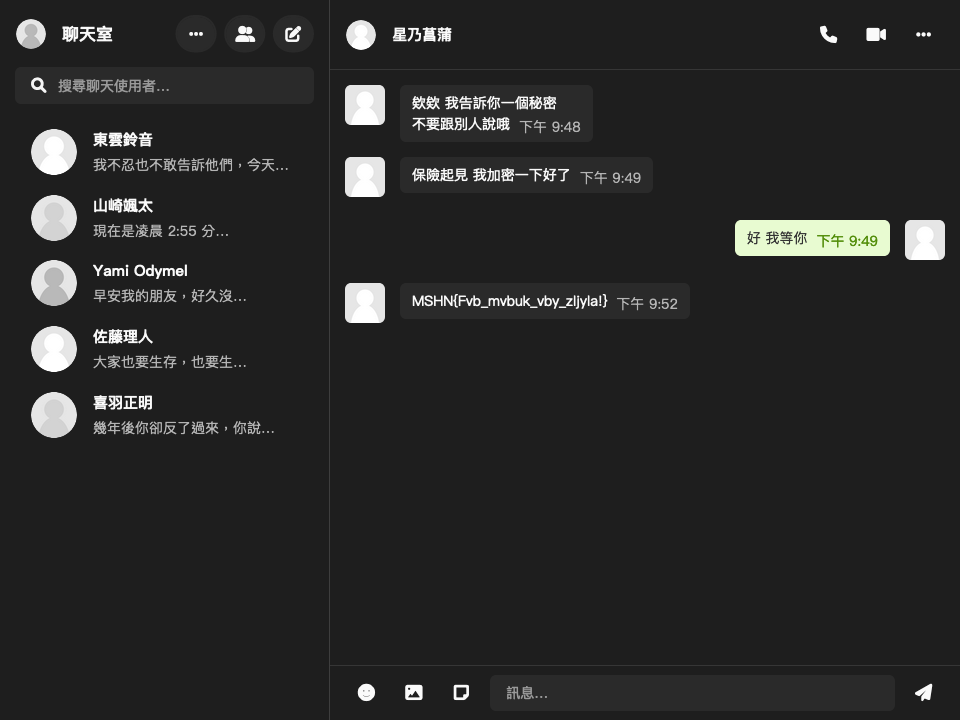
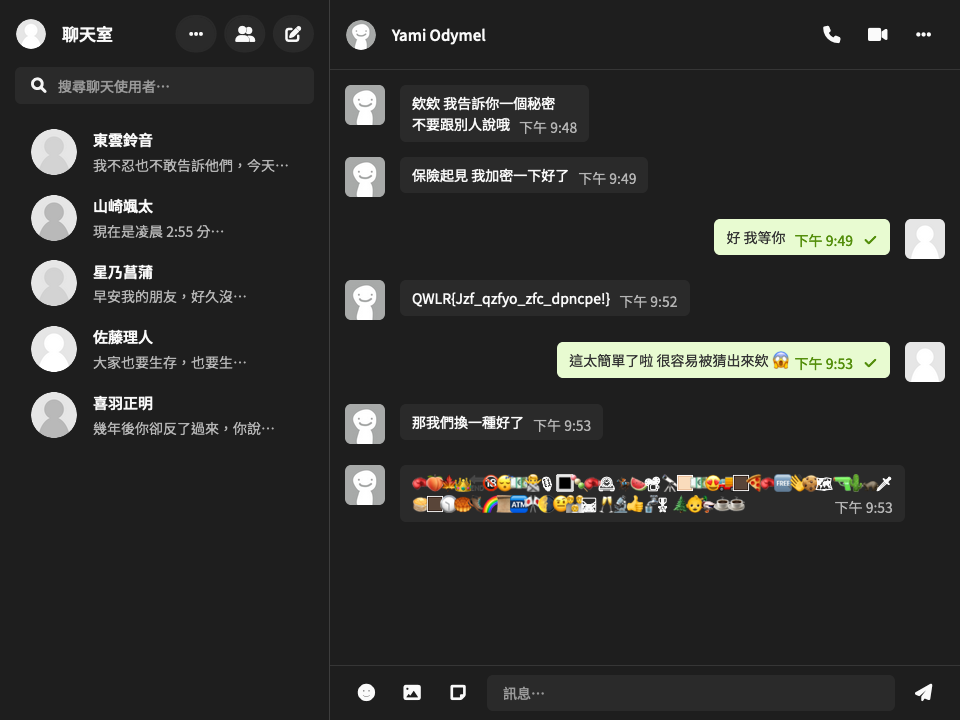
Add 3 vulhub

diff --git a/caesar/index.php b/caesar/index.php
@@ -12,7 +12,7 @@
                     <div class="ts-row is-middle-aligned">
                         <div class="column">
                             <div class="ts-avatar is-circular">
-                                <img src="/assets/img/user3.png" />
+                                <img src="/assets/img/user.png" />
                             </div>
                         </div>
                         <div class="column is-fluid">
@@ -35,14 +35,14 @@
                     <div class="ts-space"></div>
                     <div class="ts-input is-solid is-fluid is-start-icon">
                         <span class="ts-icon is-magnifying-glass-icon"></span>
-                        <input type="text" placeholder="搜尋聊天使用者…" />
+                        <input type="text" placeholder="找找魔法師" />
                     </div>
                     <div class="ts-space"></div>
                     <div class="ts-content is-interactive is-dense">
                         <div class="ts-row is-middle-aligned">
                             <div class="column">
                                 <div class="ts-avatar is-circular is-large">
-                                    <img src="/assets/img/user.png" />
+                                    <img src="/assets/img/user2.png" />
                                 </div>
                             </div>
                             <div class="column">
@@ -55,7 +55,7 @@
                         <div class="ts-row is-middle-aligned">
                             <div class="column">
                                 <div class="ts-avatar is-circular is-large">
-                                    <img src="/assets/img/user2.png" />
+                                    <img src="/assets/img/user3.png" />
                                 </div>
                             </div>
                             <div class="column">
@@ -68,11 +68,11 @@
                         <div class="ts-row is-middle-aligned">
                             <div class="column">
                                 <div class="ts-avatar is-circular is-large">
-                                    <img src="/assets/img/user3.png" />
+                                    <img src="/assets/img/user2.png" />
                                 </div>
                             </div>
                             <div class="column">
-                                <div class="ts-text is-bold">Yami Odymel</div>
+                                <div class="ts-text is-bold">星乃菖蒲</div>
                                 <div class="ts-text is-description">早安我的朋友，好久沒…</div>
                             </div>
                         </div>
@@ -94,7 +94,7 @@
                         <div class="ts-row is-middle-aligned">
                             <div class="column">
                                 <div class="ts-avatar is-circular is-large">
-                                    <img src="/assets/img/user2.png" />
+                                    <img src="/assets/img/user3.png" />
                                 </div>
                             </div>
                             <div class="column">
@@ -111,11 +111,11 @@
                         <div class="ts-row is-middle-aligned">
                             <div class="column">
                                 <div class="ts-avatar is-circular">
-                                    <img src="/assets/img/user.png" />
+                                    <img src="/assets/img/user-yami.jpg" />
                                 </div>
                             </div>
                             <div class="column is-fluid">
-                                <div class="ts-text is-bold">星乃菖蒲</div>
+                                <div class="ts-text is-bold">Yami Odymel</div>
                             </div>
                             <div class="column">
                                 <button class="ts-button is-circular is-icon is-ghost">
@@ -135,7 +135,7 @@
                     <div class="ts-content">
                         <div class="ts-conversation">
                             <div class="avatar">
-                                <img src="/assets/img/user.png" />
+                                <img src="/assets/img/user-yami.jpg" />
                             </div>
                             <div class="content">
                                 <div class="bubble">
@@ -152,7 +152,7 @@
                         <div class="ts-space"></div>
                         <div class="ts-conversation">
                             <div class="avatar">
-                                <img src="/assets/img/user.png" />
+                                <img src="/assets/img/user-yami.jpg" />
                             </div>
                             <div class="content">
                                 <div class="bubble">
@@ -184,7 +184,7 @@
                         <div class="ts-space"></div>
                         <div class="ts-conversation">
                             <div class="avatar">
-                                <img src="/assets/img/user.png" />
+                                <img src="/assets/img/user-yami.jpg" />
                             </div>
                             <div class="content">
                                 <div class="bubble">
@@ -216,7 +216,7 @@
                         <div class="ts-space"></div>
                         <div class="ts-conversation">
                             <div class="avatar">
-                                <img src="/assets/img/user.png" />
+                                <img src="/assets/img/user-yami.jpg" />
                             </div>
                             <div class="content">
                                 <div class="bubble">
@@ -232,7 +232,7 @@
                         <div class="ts-space"></div>
                         <div class="ts-conversation">
                             <div class="avatar">
-                                <img src="/assets/img/user.png" />
+                                <img src="/assets/img/user-yami.jpg" />
                             </div>
                             <div class="content">
                                 <div class="bubble">
@@ -264,7 +264,7 @@
                             </div>
                             <div class="column is-fluid">
                                 <div class="ts-input is-solid is-fluid">
-                                    <input type="text" placeholder="訊息…" />
+                                    <input type="text" placeholder="發送水晶玉" />
                                 </div>
                             </div>
                             <div class="column">

diff --git a/index.php b/index.php
@@ -15,8 +15,10 @@
 		<div class="ts-content is-secondary is-fitted">
 			<div class="ts-container">
 				<div class="ts-tab">
+					<a class="item" target="_blank" href="https://www.sean.taipei/">關於我</a>
 					<div class="item is-active">題目列表</div>
-					<a href="https://hackmd.io/@Sean64/sec" target="_blank" class="item">簡報</a>
+					<a class="item" target="_blank" href="https://hackmd.io/@Sean64/sec">教學簡報</a>
+					<a class="item" target="_blank" href="https://blog.sean.taipei/">部落格</a>
 				</div>
 			</div>
 		</div>
@@ -37,7 +39,7 @@
 					<div class="ts-box">
 						<div class="ts-image">
 							<a target="_blank" href="/f12">
-								<img src="img/f12.png" />
+								<img src="/assets/img/f12.png" />
 							</a>
 						</div>
 						<div class="ts-content">學弟的瀏覽器幫他記住密碼了，要怎麼找出預先填入的密碼呢</div>
@@ -46,18 +48,8 @@
 				<div class="column">
 					<div class="ts-box">
 						<div class="ts-image">
-							<a target="_blank" href="/xss">
-								<img src="img/xss.png" />
-							</a>
-						</div>
-						<div class="ts-content">每個人都可以留言欸！看起來沒有過濾文字，來試試上課教到的 XSS 程式碼注入吧</div>
-					</div>
-				</div>
-				<div class="column">
-					<div class="ts-box">
-						<div class="ts-image">
 							<a target="_blank" href="/bac">
-								<img src="img/bac.png" />
+								<img src="/assets/img/bac.png" />
 							</a>
 						</div>
 						<div class="ts-content">有人偷懶只在前端驗證帳號密碼，動點小巧思就能繞過限制</div>
@@ -67,17 +59,27 @@
 					<div class="ts-box">
 						<div class="ts-image">
 							<a target="_blank" href="/cmdi">
-								<img src="img/cmdi.png" />
+								<img src="/assets/img/cmdi.png" />
 							</a>
 						</div>
-						<div class="ts-content">我開發了一個可以 Ping 任何網站的小工具，放到網路上給大家使用。等等... 是不是哪裡寫壞了？</div>
+						<div class="ts-content">我開發了一個可以 Ping 任何網站的小工具，放到網路上給大家使用。等等... 是不是哪裡寫壞了</div>
+					</div>
+				</div>
+				<div class="column">
+					<div class="ts-box">
+						<div class="ts-image">
+							<a target="_blank" href="/xss">
+								<img src="/assets/img/xss.png" />
+							</a>
+						</div>
+						<div class="ts-content">每個人都可以留言欸！看起來沒有過濾文字，來試試上課教到的 XSS 程式碼注入吧</div>
 					</div>
 				</div>
 				<div class="column">
 					<div class="ts-box">
 						<div class="ts-image">
 							<a target="_blank" href="/caesar">
-								<img src="img/caesar.png" />
+								<img src="/assets/img/caesar.png" />
 							</a>
 						</div>
 						<div class="ts-content">前陣子破解同學電腦，看到了聊天訊息，但似乎被某種方式加密過了，試著找到工具破譯密文吧</div>
@@ -87,10 +89,40 @@
 					<div class="ts-box">
 						<div class="ts-image">
 							<a target="_blank" href="/stego">
-								<img src="img/stego.png" />
+								<img src="/assets/img/stego.png" />
 							</a>
 						</div>
-						<div class="ts-content">這題我想不到可以出什麼情境 (´･ω･`)</div>
+						<div class="ts-content">朋友竟然在河道上發布生活照，好像有些資訊沒有移除掉</div>
+					</div>
+				</div>
+				<div class="column">
+					<div class="ts-box">
+						<div class="ts-image">
+							<a target="_blank" href="https://ctf.sean.cat:43798/">
+								<img src="/assets/img/grafana.png" />
+							</a>
+						</div>
+						<div class="ts-content">Grafana</div>
+					</div>
+				</div>
+				<div class="column">
+					<div class="ts-box">
+						<div class="ts-image">
+							<a target="_blank" href="https://ctf.sean.cat:41773/">
+								<img src="/assets/img/apache2-4-49.png" />
+							</a>
+						</div>
+						<div class="ts-content">Apache 2.4.49</div>
+					</div>
+				</div>
+				<div class="column">
+					<div class="ts-box">
+						<div class="ts-image">
+							<a target="_blank" href="https://ctf.sean.cat:42013/">
+								<img src="/assets/img/apache2-4-50.png" />
+							</a>
+						</div>
+						<div class="ts-content">Apache 2.4.50</div>
 					</div>
 				</div>
 			</div>

diff --git a/bac/index.php b/bac/index.php
@@ -1,101 +1,65 @@
-<?php
-if (isset($_GET['source'])) {
-	highlight_file(__FILE__);
-	exit;
-}
-?>
 <!DOCTYPE html>
-<html>
+<html lang="zh-TW">
 <head>
-	<meta charset="UTF-8">
-	<link href="https://cdn.rawgit.com/TeaMeow/TocasUI/2.3.2/dist/tocas.css" rel='stylesheet'>
-	<script src="https://cdn.rawgit.com/TeaMeow/TocasUI/2.3.2/dist/tocas.js"></script>
+	<meta charset="UTF-8" />
 	<title>登入範例 | Tocas UI</title>
-	<style type="text/css">
-		.segment {
-			max-width: 300px;
-		}
-	</style>
+	<link href="https://cdn.rawgit.com/TeaMeow/TocasUI/2.3.2/dist/tocas.css" rel="stylesheet" />
+	<script src="https://cdn.rawgit.com/TeaMeow/TocasUI/2.3.2/dist/tocas.js"></script>
+	<script src="/assets/js/clarity.js"></script>
+	<style>.segment { max-width: 300px; }</style>
 </head>
 <body>
-	<!-- 主要容器 -->
 	<div class="ts narrow container">
-		<br>
-		<br>
-
-		<!-- 抬頭標題 -->
-		<h1 class="ts center aligned header">
+		<h1 class="ts center aligned header" style="margin-top: 20vh">
 			管理員登入
-			<div class="sub header">輸入正確帳號密碼後，將帶您至管理介面</div>
+			<div class="sub center aligned header">輸入正確帳號密碼後，將帶您至管理介面</div>
 		</h1>
-		<!-- / 抬頭標題 -->
 
-		<!-- 主要登入片段 -->
 		<div class="ts centered secondary segment">
-			<!-- 表單 -->
 			<form class="ts form" onsubmit="return login()">
-				<!-- 帳號欄位 -->
 				<div class="field">
 					<label>帳號</label>
-					<input id="username" placeholder="admin" autocomplete="off">
+					<input id="username" placeholder="admin" autocomplete="off" />
 				</div>
-				<!-- / 帳號欄位 -->
 
-				<!-- 密碼欄位 -->
 				<div class="field">
 					<label>密碼</label>
-					<input id="password" placeholder="********" autocomplete="off">
+					<input id="password" placeholder="******" autocomplete="off" />
 				</div>
-				<!-- / 密碼欄位 -->
 
-				<!-- 登入按鈕 -->
 				<button type="submit" class="ts positive fluid button">登入</button>
-				<!-- / 登入按鈕 -->
 			</form>
-			<!-- / 表單 -->
 		</div>
-		<!-- / 主要登入片段 -->
 	</div>
-	<!-- / 主要容器 -->
 
 	<div class="ts snackbar">
 		<div class="content"></div>
 	</div>
 
-<script>
-function login() {
-	let username = document.getElementById('username').value;
-	let password = document.getElementById('password').value;
+	<script>
+		function login() {
+			let user = document.getElementById("username").value;
+			let pass = document.getElementById("password").value;
 
-	if (username.length == 0 || password.length == 0) {
-		ts('.snackbar').snackbar({
-			content: '帳密不能為空！'
-		});
-		return false;
-	}
+			// 驗證使用者帳密
+			fetch(`./verify/user-${user}/pass-${pass}`, {}).then((data) => {
+				// 如果檔案不存在，代表密碼輸入錯誤
+				if (data.status == 404) {
+					ts(".snackbar").snackbar({
+						content: "密碼錯誤！",
+					});
+				}
 
-	// 驗證使用者帳密
-	let url = `./verify/${username}/${password}`;
-	fetch(url, {})
-	.then(data => {
-		// 如果檔案不存在，代表密碼輸入錯誤
-		if (data.status == 404) {
-			ts('.snackbar').snackbar({
-				content: '密碼錯誤！'
+				// 密碼正確才會導向管理頁面
+				if (data.status == 200) {
+					location.href = "./admin-panel-i5XEzWkb/";
+				}
 			});
-		}
 
-		// 密碼正確才會導向管理頁面
-		if (data.status == 200) {
-			location.href = './admin-panel-i5XEzWkb'
+			// 已經用 JavaScript 處理過表單了，不需要真的送出
+			return false;
 		}
-	});
-
-	// 已經用 JavaScript 處理過表單了，不需要真的送出
-	return false;
-}
-</script>
-<script src="/assets/js/clarity.js"></script>
+	</script>
 </body>
 </html>
 <!-- Modified from https://examples.tocas-ui.com/pages/login.html -->
